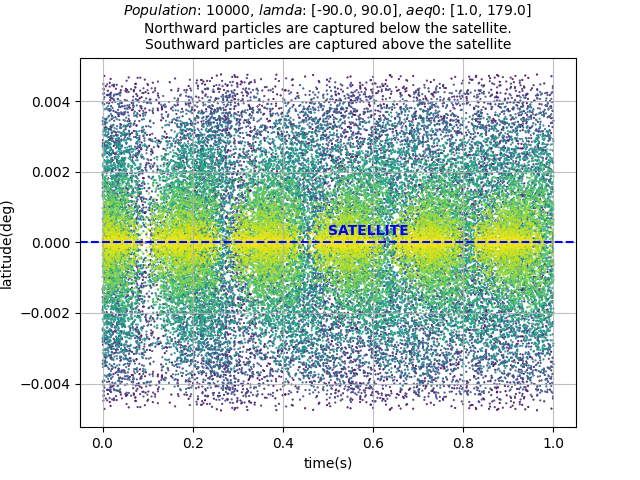
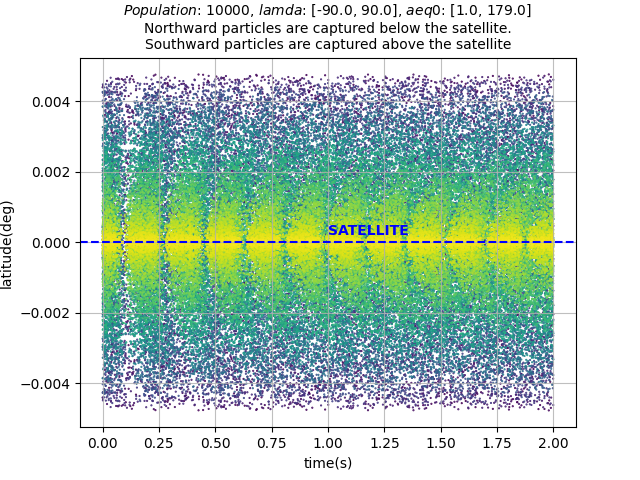
just plots

diff --git a/Telescope/src/headers/constants.h b/Telescope/src/headers/constants.h
@@ -50,8 +50,8 @@ const real pulse_duration=0.1;          		//Wave pulse duration in seconds.
 
 
 //--Simulation parameters--//
-const real t = 1;        				  	    //Simulation time in seconds.
-const real t_nowpi = 0.5;                         //NoWPI time.
+const real t = 2;        				  	    //Simulation time in seconds.
+const real t_nowpi = 1;                         //NoWPI time.
 const real t_wpi = t - t_nowpi;                 //WPI time.
 const real h=0.00001;						    //Runge kutta stepsize. Has to be much less than the particle's gyroperiod?
 const int64_t Nsteps_wpi  = t_wpi/h; 			//WPI step count

diff --git a/Telescope/src/tracer/li_wpi.cc b/Telescope/src/tracer/li_wpi.cc
@@ -113,7 +113,7 @@ void wpi_ray(real p, Particles &single, Telescope &ODPT)
         {   
             //To save states of precipitating particles:
             single.save_state(lamda,alpha, aeq, ppar, pper, time);
-            std::cout<<"\n\nParticle "<<p<<" escaped with ppar "<< ppar<< " pper " << pper<< " eta " << eta << " lamda " <<lamda<< " alpha "<< alpha << " aeq " <<aeq ;
+            //std::cout<<"\n\nParticle "<<p<<" escaped with ppar "<< ppar<< " pper " << pper<< " eta " << eta << " lamda " <<lamda<< " alpha "<< alpha << " aeq " <<aeq ;
             break;
         }
 
